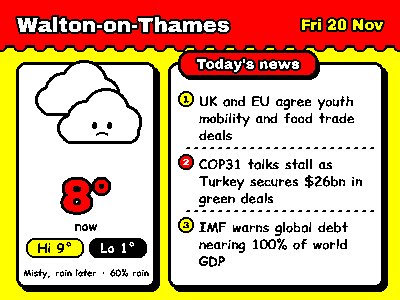
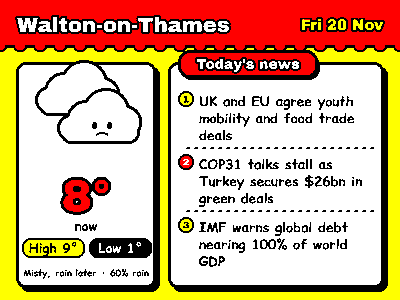
Show High/Low instead of Hi/Lo on PicPak card
Claude-Session: https://claude.ai/code/session_01QqBmV9pSd6mpgw39vEVBcd

Changed region(s): [[0.03, 0.78, 0.21, 0.87], [0.24, 0.78, 0.39, 0.87]]

diff --git a/make_card.py b/make_card.py
@@ -149,10 +149,11 @@ else:  # partly_cloudy
 
 outlined_text((86, 196), f"{round(data['now'])}°", f(ARCHIVO, 46), RED, stroke=3, anchor="mm")
 text((86, 226), "now", f(COMIC_B, 13), BLACK, anchor="mm")
-d.rounded_rectangle(R(26, 238, 84, 258), radius=9 * S, fill=YELLOW, outline=BLACK, width=2 * S)
-text((55, 248), f"Hi {round(data['hi'])}°", f(COMIC_B, 13), BLACK, anchor="mm")
-d.rounded_rectangle(R(89, 238, 147, 258), radius=9 * S, fill=BLACK)
-text((118, 248), f"Lo {round(data['lo'])}°", f(COMIC_B, 13), WHITE, anchor="mm")
+hi_s, lo_s = f"High {round(data['hi'])}°", f"Low {round(data['lo'])}°"
+d.rounded_rectangle(R(22, 238, 85, 258), radius=9 * S, fill=YELLOW, outline=BLACK, width=2 * S)
+text((53.5, 248), hi_s, fit_font(COMIC_B, hi_s, 13, 56), BLACK, anchor="mm")
+d.rounded_rectangle(R(89, 238, 152, 258), radius=9 * S, fill=BLACK)
+text((120.5, 248), lo_s, fit_font(COMIC_B, lo_s, 13, 56), WHITE, anchor="mm")
 text((86, 273), data["summary"], fit_font(COMIC_B, data["summary"], 10.5, 128), BLACK, anchor="mm")
 
 # ---- news panel ----
